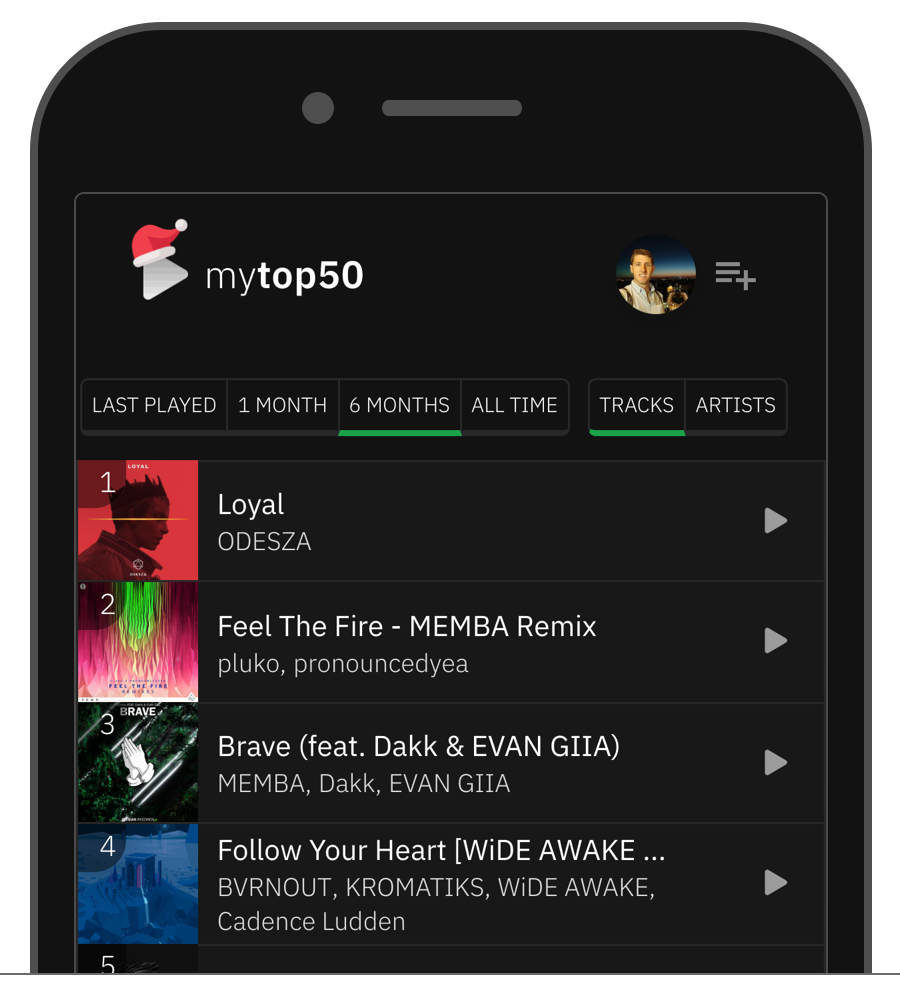
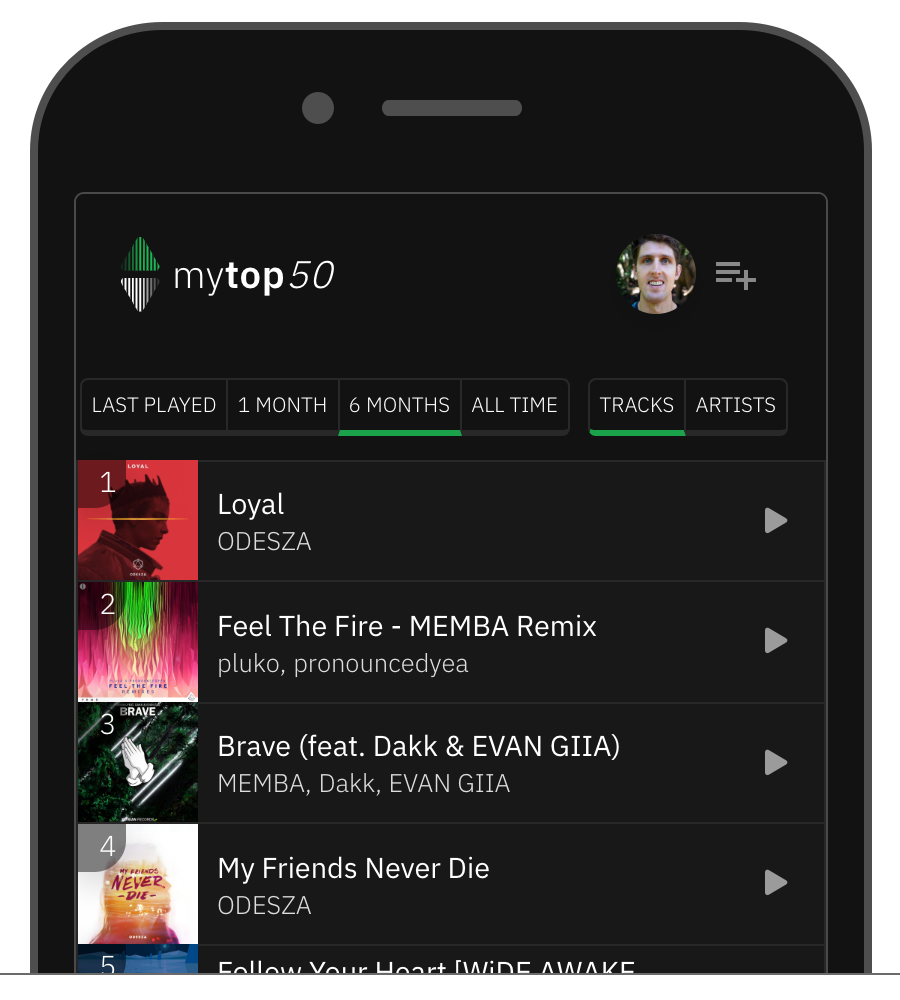
updates login page image

diff --git a/public/index.html b/public/index.html
@@ -63,7 +63,7 @@
         <div class="container-logo">
           <img src="/assets/images/logo_sort_1.svg" class="hero-logo"/>
           <div class="logo-text">
-            <span class="regular">my</span><span class="bold">top</span><span class="bold">50</span>
+            <span class="regular">my</span><span class="bold">top</span><span class="italic">50</span>
           </div>
 
         </div>
@@ -121,7 +121,7 @@
           <a class="navbar-brand" href="/">
               <img src="/assets/images/logo_sort_1.svg" class="image--brand"/>
               <div class="text--brand">
-                <span class="regular">my</span><span class="bold">top</span><span class="bold">50</span>
+                <span class="regular">my</span><span class="bold">top</span><span class="italic">50</span>
               </div>
           </a>
 
